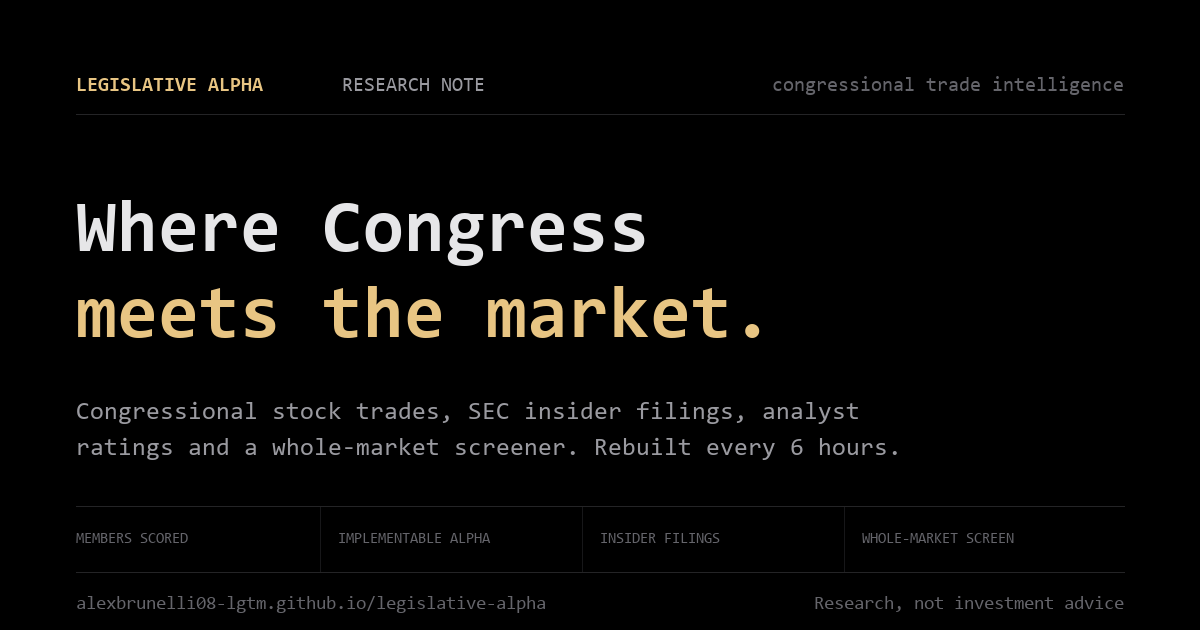
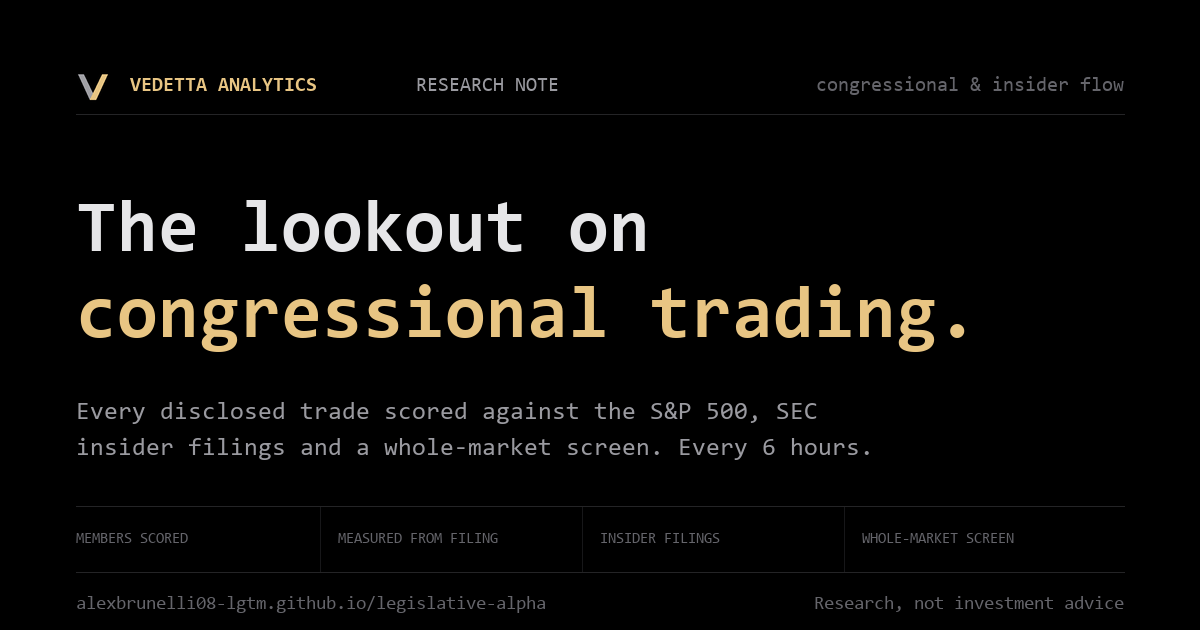
Rename the project to Vedetta Analytics
vedetta (Italian) -- the lookout: the one posted to watch, and to report what
they see. The old name promised alpha, which is the one thing the research
does not find: measured from the filing date, the average disclosed
congressional purchase trails the S&P 500. A lookout promises nothing except
that someone is watching, so the name no longer argues with the data.

New mark: a sightline -- two strokes diverging from an observation point,
which is also the V of the name. Mitred square terminals, because nothing
else on the site is bevelled. The second leg sits at --text-dim rather than
--text-faint: at 16px a fainter leg drops out and the mark collapses into a
single slash, which is exactly how an earlier two-stroke mark failed. Six
candidates were rendered at 16/32/64 first; two of them inverted into a
downward wedge, which on a finance site reads as loss.

Regenerated favicon.svg, favicon.ico, every PNG icon and the social card.
Renamed through the masthead, slug line, footer, About, Terms, manifest,
README and the fetcher's declared User-Agent -- which now points at the repo
rather than a placeholder address, so SEC has a contact route that is real.

About now carries the name glossed and the rename explained, with the figure
read live from lag_study so the explanation cannot drift from the finding it
cites.

Three defects found on the way:

- .cmdk-btn was never hidden on phones. Its base rule is declared ~740 lines
[…]

diff --git a/index.html b/index.html
@@ -6,7 +6,7 @@
 <meta http-equiv="Cache-Control" content="no-cache, no-store, must-revalidate">
 <meta http-equiv="Pragma" content="no-cache">
 <meta http-equiv="Expires" content="0">
-<title>Legislative Alpha — Where Congress Meets the Market</title>
+<title>Vedetta Analytics — Congressional &amp; Insider Trading Research</title>
 <meta name="description" content="Independent research on U.S. congressional stock trades, SEC insider filings, analyst ratings and market signals. Rebuilt every six hours. Not investment advice.">
 <link rel="canonical" href="https://alexbrunelli08-lgtm.github.io/legislative-alpha/">
 <meta name="theme-color" content="#000000">
@@ -20,17 +20,17 @@
 
 <!-- Link previews. Absolute URLs: scrapers do not resolve relative ones. -->
 <meta property="og:type" content="website">
-<meta property="og:site_name" content="Legislative Alpha">
-<meta property="og:title" content="Legislative Alpha - Where Congress meets the market">
+<meta property="og:site_name" content="Vedetta Analytics">
+<meta property="og:title" content="Vedetta Analytics - the lookout on congressional trading">
 <meta property="og:description" content="Independent research on U.S. congressional stock trades, SEC insider filings, analyst ratings and market signals. Rebuilt every six hours. Not investment advice.">
 <meta property="og:url" content="https://alexbrunelli08-lgtm.github.io/legislative-alpha/">
 <meta property="og:image" content="https://alexbrunelli08-lgtm.github.io/legislative-alpha/og-image.png">
 <meta property="og:image:width" content="1200">
 <meta property="og:image:height" content="630">
-<meta property="og:image:alt" content="Legislative Alpha - congressional trades, insider filings and a whole-market screener.">
+<meta property="og:image:alt" content="Vedetta Analytics - congressional trades, insider filings and a whole-market screener.">
 <meta property="og:locale" content="en_US">
 <meta name="twitter:card" content="summary_large_image">
-<meta name="twitter:title" content="Legislative Alpha - Where Congress meets the market">
+<meta name="twitter:title" content="Vedetta Analytics - the lookout on congressional trading">
 <meta name="twitter:description" content="Independent research on U.S. congressional stock trades, SEC insider filings, analyst ratings and market signals. Rebuilt every six hours. Not investment advice.">
 <meta name="twitter:image" content="https://alexbrunelli08-lgtm.github.io/legislative-alpha/og-image.png">
 
@@ -38,7 +38,8 @@
 {
   "@context": "https://schema.org",
   "@type": "WebSite",
-  "name": "Legislative Alpha",
+  "name": "Vedetta Analytics",
+  "alternateName": "Vedetta",
   "url": "https://alexbrunelli08-lgtm.github.io/legislative-alpha/",
   "description": "Independent research on U.S. congressional stock trades, SEC insider filings, analyst ratings and market signals. Rebuilt every six hours. Not investment advice.",
   "inLanguage": "en",
@@ -157,8 +158,13 @@
   .topbar-top { display: flex; align-items: center; justify-content: space-between; gap: 14px; padding: 11px 0 9px; }
   .brand { display: flex; align-items: center; gap: 9px; min-width: 0; }
   .brand .dot { width: 7px; height: 7px; border-radius: 50%; background: var(--accent); flex-shrink: 0; }
-  .brand .wordmark { font-family: var(--display); font-weight: 600; font-size: 17px; letter-spacing: -0.022em; }
-  .brand-sub { font-size: 12px; letter-spacing: -0.01em; color: var(--text-faint); padding-left: 11px; margin-left: 3px; border-left: 1px solid var(--line); }
+  .brand-mark { width: 17px; height: 17px; flex-shrink: 0; display: block; }
+  .brand .wordmark { font-family: var(--display); font-weight: 700; font-size: 15px; letter-spacing: 0.055em; white-space: nowrap; }
+  .brand .wordmark i { font-style: normal; font-weight: 400; font-size: 12.5px;
+    letter-spacing: 0.125em; color: var(--text-faint); margin-left: 2px; }
+  .brand-sub { font-size: 12px; letter-spacing: -0.01em; color: var(--text-faint);
+    padding-left: 11px; margin-left: 3px; border-left: 1px solid var(--line);
+    white-space: nowrap; }
   .topbar-right { display: flex; align-items: center; gap: 9px; }
   /* segmented-control nav */
   .topbar .view-tabs { display: flex; gap: 2px; background: none; border: none; border-radius: 0; padding: 0 0 9px; overflow-x: auto; scrollbar-width: none; }
@@ -168,14 +174,19 @@
     transition: color .25s var(--ease), background .25s var(--ease); }
   .topbar .view-tab:hover:not(.active) { color: var(--text); background: rgba(255,255,255,0.06); }
   .topbar .view-tab.active { color: var(--text); background: rgba(255,255,255,0.11); box-shadow: none; font-weight: 600; }
+  /* The descriptor goes before it gets squeezed, not when it finally
+     collides: below this the tabs and the page itself say what the site is. */
+  @media (max-width: 1150px) { .brand-sub { display: none; } }
   @media (max-width: 900px) {
     /* the search box was running under the wordmark before the 680px rules hit */
-    .brand-sub, .cmdk-btn { display: none; }
+    /* .cmdk-btn doubled: its base rule is declared far below this one at
+       equal specificity and would otherwise win the cascade. */
+    .brand-sub, .cmdk-btn.cmdk-btn, .brand .wordmark i { display: none; }
     .topbar .search-box { width: 180px; }
     .watch-btn { padding: 8px 11px; }
   }
   @media (max-width: 680px) {
-    .brand-sub, .cmdk-btn { display: none; }
+    .brand-sub, .cmdk-btn.cmdk-btn { display: none; }
     .topbar-top { flex-wrap: wrap; gap: 9px; padding-bottom: 4px; }
     .topbar-right { width: 100%; gap: 8px; flex-wrap: nowrap; }
     .topbar .search-box { flex: 1 1 auto; width: auto; min-width: 120px; max-width: none; order: 1; }
@@ -1792,7 +1803,7 @@
   /* Status dots and legend swatches stay circular -- they read as indicator
      lamps, not as decoration. Portraits deliberately do NOT: a square frame
      reads as a record photo, which is what they are. */
-  .brand .dot, .trade-flag .dot, .party-dot, .live-dot, .boot-dot,
+  .trade-flag .dot, .party-dot, .live-dot, .boot-dot,
   .conv-conf i, .swarm-foot i, .dmap-legend i, .bp-parties .party-dot {
     border-radius: 50% !important;
   }
@@ -1948,6 +1959,20 @@
      About
      --------------------------------------------------------------------- */
   .about .th-h1 { max-width: 24ch; }
+  /* The name, glossed. A reader who does not speak Italian should not have to
+     guess what the site is called, and the gloss is the whole positioning. */
+  .about .th-lede { margin-bottom: 26px; }
+  .ab-etym { border-left: 2px solid var(--accent); padding: 2px 0 2px 18px;
+    margin: 0 0 20px; max-width: 70ch; }
+  .ab-etym-top { display: flex; align-items: baseline; gap: 14px; flex-wrap: wrap; }
+  .ab-etym-w { font-size: 19px; font-weight: 700; letter-spacing: 0.02em; color: var(--text); }
+  .ab-etym-p { font-size: 10.5px; letter-spacing: 0.14em; color: var(--text-faint);
+    text-transform: uppercase; }
+  .ab-etym-d { margin: 7px 0 0; font-size: 14px; line-height: 1.7; color: var(--text-dim); }
+  .ab-etym-note { max-width: 70ch; margin: 0 0 44px; font-size: 13px; line-height: 1.75;
+    color: var(--text-faint); }
+  .ab-etym-note em { font-style: normal; color: var(--text-dim); }
+
   .ab-grid { display: grid; grid-template-columns: minmax(0,1fr) 260px; gap: 54px;
     margin-top: 46px; padding-top: 34px; border-top: 1px solid var(--line); align-items: start; }
   .ab-main { font-size: 14px; line-height: 1.75; color: var(--text-dim); max-width: 70ch; }
@@ -2099,7 +2124,7 @@
 <header class="topbar">
   <div class="wrap">
     <div class="topbar-top">
-      <div class="brand"><span class="dot"></span><span class="wordmark">Legislative&nbsp;Alpha</span><span class="brand-sub">smart-money terminal</span></div>
+      <div class="brand"><svg class="brand-mark" viewBox="0 0 64 64" aria-hidden="true" focusable="false"><polygon points="4,8 15,8 38,56 26,56" fill="#A1A1A6"/><polygon points="49,8 60,8 38,56 26,56" fill="#E8C583"/></svg><span class="wordmark">VEDETTA <i>ANALYTICS</i></span><span class="brand-sub">congressional &amp; insider flow</span></div>
       <div class="topbar-right">
         <input type="search" id="searchBox" class="search-box" placeholder="Search ticker, member, bill…" autocomplete="off">
         <button class="watch-btn" id="watchBtn" title="Watchlist" aria-label="Open watchlist">★<span class="watch-n" data-watch-count hidden></span></button>
@@ -2168,7 +2193,7 @@
   <footer>
     <div class="foot-main">
       <div class="foot-brand">
-        <span class="foot-title">Legislative Alpha</span>
+        <span class="foot-title">Vedetta Analytics</span>
         <span class="foot-by">An independent research project by Alessandro Brunelli</span>
       </div>
       <nav class="foot-links" aria-label="Legal and information">
@@ -2181,7 +2206,7 @@
       </nav>
     </div>
     <div class="foot-legal">
-      <p><b>Not investment advice.</b> Legislative Alpha is an independent research project, not a
+      <p><b>Not investment advice.</b> Vedetta Analytics is an independent research project, not a
       registered investment adviser or broker-dealer. Nothing here is a recommendation to buy or
       sell any security. Figures are estimates derived from public filings, are unaudited, exclude
       all costs and taxes, and may be delayed or incorrect. Past performance does not predict
@@ -2231,7 +2256,7 @@
   // Build tag -- bump on every index.html change. GitHub Pages caches HTML for
   // 10 min, so returning visitors can get stuck on an old UI; this checks for a
   // newer build in the background and reloads once (cache-busted) when found.
-  const BUILD_ID = "2026-11-11-learn";
+  const BUILD_ID = "2026-11-11-vedetta";
   (function checkForUpdate() {
     if (/[?&]v=/.test(location.search)) return;  // this load is already cache-busted
     fetch("index.html", { cache: "no-store" }).then(r => r.ok ? r.text() : "").then(html => {
@@ -2289,7 +2314,7 @@
 
   const VIEW_HINTS = {
     flow: "What Congress is buying NOW that it was not buying a window ago — new money, not old positions.",
-    home: "Every smart-money signal in one flow — scroll through, or dive into any section.",
+    home: "Every disclosed trade, filing and signal in one flow — scroll through, or dive into any section.",
     overview: "Everything happening right now — dollar-weighted from disclosed STOCK Act filings.",
     insiders: "Corporate officers, directors & 10% owners trading their own stock — SEC Form 4.",
     sentiment: "Wall Street vs the Crowd — analyst buy ratings and price targets next to retail social buzz.",
@@ -2789,7 +2814,7 @@
     if (!el) return;
     if (!DATA) { el.hidden = true; return; }
     el.hidden = false;
-    el.innerHTML = `<span class="th-slug-id">LEGISLATIVE&nbsp;ALPHA</span>` +
+    el.innerHTML = `<span class="th-slug-id">VEDETTA</span>` +
       `<span class="th-slug-kind">${SLUG_KIND[activeView] || ""}</span>` +
       `<span class="th-slug-fill"></span>` +
       `<span class="th-slug-date">${asOfStamp()}</span>`;
@@ -4262,12 +4287,33 @@
 
   function renderAboutView() {
     const L = DATA.lag_study || {}, fd = L.filed_date || {};
+    /* Why the name changed, stated with the number it was changed over. Read
+       from lag_study so the explanation cannot drift from the finding it cites. */
+    const gap = typeof fd.mean === "number" ? fd.mean : null;
+    const renameNote =
+      `This project was called <em>Legislative Alpha</em> until November 2026. The name was ` +
+      `changed because it promised something the data does not support: measured from the ` +
+      `filing date — the first price a follower could actually pay — the average ` +
+      `disclosed congressional purchase has ` +
+      (gap != null && gap < 0
+        ? `trailed the S&amp;P&nbsp;500 by ${Math.abs(gap).toFixed(2)} percentage points`
+        : `not reliably beaten the S&amp;P&nbsp;500`) +
+      `. A lookout promises nothing except that someone is watching.`;
     const row = (k, v) => `<div class="ab-row"><i>${k}</i><b>${v}</b></div>`;
     return `<section class="data-section about">
       <h1 class="th-h1">An independent record of what Congress trades.</h1>
-      <p class="th-lede">Legislative Alpha scores every disclosed congressional stock trade against the
+      <p class="th-lede">Vedetta Analytics scores every disclosed congressional stock trade against the
       S&amp;P&nbsp;500 and publishes the result, including when the result is unflattering. It takes no
       outside funding, sells nothing, and makes no recommendations.</p>
+
+      <div class="ab-etym">
+        <div class="ab-etym-top">
+          <span class="ab-etym-w">ve&middot;det&middot;ta</span>
+          <span class="ab-etym-p">Italian &middot; noun</span>
+        </div>
+        <p class="ab-etym-d">The lookout. The one posted to watch, and to report what they see.</p>
+      </div>
+      <p class="ab-etym-note">${renameNote}</p>
 
       <div class="ab-grid">
         <div class="ab-main">
@@ -4350,7 +4396,7 @@
       "Read this before you act on anything you see here. It is the most important page on the site.",
       `
       <div class="legal-callout">
-        <b>This is not investment advice.</b> Legislative Alpha is an independent research and
+        <b>This is not investment advice.</b> Vedetta Analytics is an independent research and
         journalism project. It is not a registered investment adviser, broker-dealer, or financial
         planner, and nothing on it is a recommendation, solicitation, or offer to buy or sell any
         security. No content here is tailored to your circumstances, and no adviser-client or
@@ -4487,7 +4533,7 @@
       "The rules for using this site. By using it you accept them.",
       `
       <h2>1. Acceptance</h2>
-      <p>By accessing or using Legislative Alpha (the "site") you agree to these terms and to the
+      <p>By accessing or using Vedetta Analytics (the "site") you agree to these terms and to the
       <button class="inline-link" data-goto="disclaimer">Disclaimer</button> and
       <button class="inline-link" data-goto="privacy">Privacy</button> pages, which form part of
       them. If you do not agree, do not use the site.</p>

diff --git a/scripts/fetch_data.py b/scripts/fetch_data.py
@@ -1,6 +1,6 @@
 #!/usr/bin/env python3
 """
-Legislative Alpha daily data fetcher.
+Vedetta Analytics daily data fetcher.
 
 Pulls two live data sources and writes a single data.json for the site:
   1. Bills + amendments  -- Congress.gov API (requires CONGRESS_API_KEY).
@@ -62,8 +62,8 @@ DISCLOSURE_MAX_LAG = 400          # filings later than this are stale amendments
 MIN_SCORED_BUYS_BACKEND = 3       # below this a member's record is noise, not a record
 MIN_VALIDATION_N = 40             # below this a score validation is provisional, not a verdict
 REQUEST_TIMEOUT = 20
-USER_AGENT = "legislative-alpha-tracker/1.0 (personal project; contact via github repo)"
-SEC_HEADERS = {"User-Agent": "Legislative Alpha research tracker admin@legislative-alpha.example",
+USER_AGENT = "vedetta-analytics/1.0 (independent research project; contact via github.com/alexbrunelli08-lgtm/legislative-alpha)"
+SEC_HEADERS = {"User-Agent": "Vedetta Analytics research tracker (contact: github.com/alexbrunelli08-lgtm/legislative-alpha)",
                "Accept-Encoding": "gzip, deflate"}
 
 CONGRESS_API_KEY = os.environ.get("CONGRESS_API_KEY")

diff --git a/README.md b/README.md
@@ -1,6 +1,8 @@
-# Legislative Alpha
+# Vedetta Analytics
 
-A daily-updating site where Congress meets the market, organized by sector of the economy. Three views:
+*vedetta* (Italian) — the lookout: the one posted to watch, and to report what they see.
+
+A daily-updating site that scores disclosed congressional trading against the S&P 500 and publishes the result, including when the result is unflattering. Organized by sector of the economy. Core views:
 
 - **Bills** — the key bills moving through each sector, each linked to the stocks positioned to benefit and the congressional trades disclosed in those tickers.
 - **Politicians** — every member's disclosed trades aggregated into a portfolio you can open and inspect (Autopilot-style "follow a pilot").
